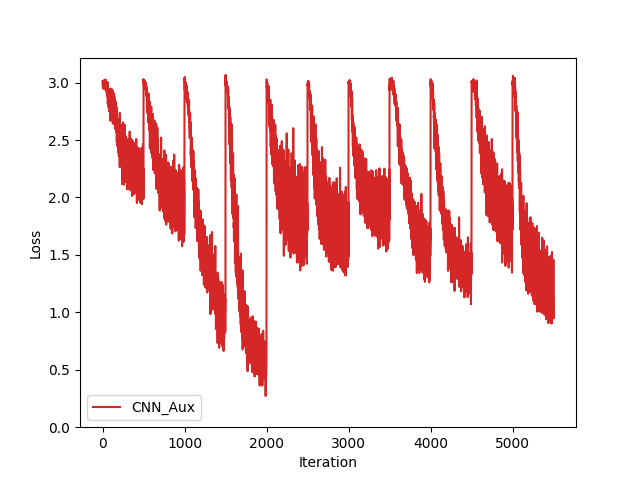
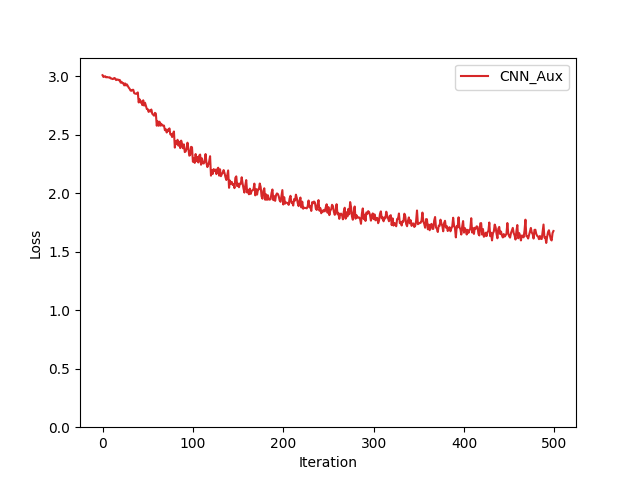
Auxiliary finished

diff --git a/project1/models.py b/project1/models.py
@@ -8,30 +8,48 @@ from torch import optim
 from modelclass import Model
 
 
+
 class Baseline(Model):
     """ The Baseline model is composed only of fully-connected layers. """
 
     def __init__(self, f_gen_data, nb_epochs=25, mini_batch_size=100, learning_rate=1e-3):
         super().__init__(f_gen_data, nb_epochs, mini_batch_size, learning_rate)
 
-        self.fc1 = nn.Linear(98, 200)
-        self.bn1 = nn.BatchNorm1d(200)
-        self.drop = nn.Dropout(0.5)
-        self.fc2 = nn.Linear(200, 100)
+        # layer 1
+        self.fc1 = nn.Linear(392, 160)
+        self.bn1 = nn.BatchNorm1d(160)
+        self.drop1 = nn.Dropout(0.5)
+
+        # layer 2
+        self.fc2 = nn.Linear(80, 100)
         self.bn2 = nn.BatchNorm1d(100)
-        self.fc3 = nn.Linear(100, 100)
-        self.bn3 = nn.BatchNorm1d(100)
-        self.fc4 = nn.Linear(100, 10)
-        self.fc5 = nn.Linear(10, 2)
+        self.drop2 = nn.Dropout(0.5)
+
+        # layer 3
+        self.fc3 = nn.Linear(50, 10)
+
+        # layer 4
+        self.fc4 = nn.Linear(10, 2)
+        print(sum(p.numel() for p in self.parameters() if p.requires_grad))
 
     def forward(self, x):
-        x = F.max_pool2d(x, kernel_size=2)
-        x = F.relu(self.bn1(self.fc1(x.view(x.size()[0], -1))))
-        x = self.drop(x)
-        x = F.relu(self.bn2(self.fc2(x)))
-        x = F.relu(self.bn3(self.fc3(x)))
-        x = F.relu(self.fc4(x))
-        x = self.fc5(x)
+        n = x.size()[0]
+
+        # layer 1
+        x = F.relu(self.bn1(self.fc1(x.view(n, -1))))
+        x = F.max_pool1d(x.view(n, 1, -1), kernel_size=2)
+        x = self.drop1(x)
+
+        # layer 2
+        x = F.relu(self.bn2(self.fc2(x.view(n, -1))))
+        x = F.max_pool1d(x.view(n, 1, -1), kernel_size=2)
+        x = self.drop2(x)
+
+        # layer 3
+        x = F.relu(self.fc3(x.view(n, -1)))
+
+        # layer 4
+        x = self.fc4(x)
         return x
 
     def reset(self):
@@ -47,19 +65,42 @@ class Auxiliary(Model):
         # tell parent class we use auxiliary loss
         self.useAuxiliary = True
 
-        self.fc1 = nn.Linear(196, 200)
-        self.fc2 = nn.Linear(200, 100)
-        self.fc3 = nn.Linear(100, 10)
-        self.fc4 = nn.Linear(10, 2)
+        # layer 1
+        self.fc1 = nn.Linear(196, 160)
+        self.bn1 = nn.BatchNorm1d(160)
+        self.drop1 = nn.Dropout(0.5)
+
+        # layer 2
+        self.fc2 = nn.Linear(80, 100)
+        self.bn2 = nn.BatchNorm1d(100)
+        self.drop2 = nn.Dropout(0.5)
+
+        # layer 3 : digit classification
+        self.fc3 = nn.Linear(50, 10)
+
+        # layer 4 : digit comparison
+        self.fc4 = nn.Linear(20, 2)
+        print(sum(p.numel() for p in self.parameters() if p.requires_grad))
 
     def forward(self, x):
-        x = F.relu(self.fc1(x.view(x.size()[0], -1)))
-        x = F.relu(self.fc2(x))
-        digit_class = self.fc3(x)
+        n = x.size()[0]
 
+        # layer 1
+        x = F.relu(self.bn1(self.fc1(x.view(n, -1))))
+        x = F.max_pool1d(x.view(n, 1, -1), kernel_size=2)
+        x = self.drop1(x)
+
+        # layer 2
+        x = F.relu(self.bn2(self.fc2(x.view(n, -1))))
+        x = F.max_pool1d(x.view(n, 1, -1), kernel_size=2)
+        x = self.drop2(x)
+
+        # layer 3 : digit classification
+        digit_class = self.fc3(x.view(n, -1))
         x = F.relu(digit_class)
-        x = F.relu(self.fc4(x))
-        final_class = x.view(x.size()[0] // 2, -1)
+
+        # layer 4 : digit comparison
+        final_class = self.fc4(x.view(x.size()[0] // 2, -1))
         return digit_class, final_class
 
     def reset(self):
@@ -99,8 +140,10 @@ class CNN(Model):
 
         # 7th layer : fully-connected (digit comparison)
         self.fc3 = nn.Linear(10, 2)
+        print(sum(p.numel() for p in self.parameters() if p.requires_grad))
 
     def forward(self, x):
+
         # layer 1
         x = F.max_pool2d(F.relu(self.bn1(self.conv1(x))), kernel_size=3)
         x = self.drop1(x)
@@ -166,9 +209,9 @@ class CNN_Auxiliary(Model):
 
         # 7th layer : fully-connected (digit comparison)
         self.fc3 = nn.Linear(20, 2)
+        print(sum(p.numel() for p in self.parameters() if p.requires_grad))
 
     def forward(self, x):
-
         # layer 1
         x = F.max_pool2d(F.relu(self.bn1(self.conv1(x))), kernel_size=3)
         x = self.drop1(x)
@@ -192,8 +235,7 @@ class CNN_Auxiliary(Model):
         x = F.relu(digit_class)
 
         # layer 7 : digit comparison
-        # print(x.size())
-        # print(x.view(x.size()[0] // 2, -1).size())
+        # artificially create two channel
         final_class = self.fc3(x.view(x.size()[0] // 2, -1))
         return digit_class, final_class
 

diff --git a/project1/test.py b/project1/test.py
@@ -22,38 +22,37 @@ def train_and_test_rounds(model, nb_rounds, test_id):
     tests_err_rates = []
     losses = []
 
-    for i in range(nb_rounds + 1):
+    for i in range(nb_rounds):
         model.reset()
         trains_err_rate, tests_err_rate, losses_ = model.train_and_test()
         trains_err_rates.append(trains_err_rate)
         tests_err_rates.append(tests_err_rate)
         losses.append(losses_)
 
-    # loss_it = len(losses[0])
-    # loss_avg = []
-    # for i in range(loss_it):
-    #     loss_avg.append(mean(list(map(lambda ls: ls[i], losses))))
-    return ModelResult(test_id, trains_err_rates, tests_err_rates, losses)
+    loss_it = len(losses[0])
+    loss_avg = []
+    for i in range(loss_it):
+        loss_avg.append(mean(list(map(lambda ls: ls[i], losses))))
+    return ModelResult(test_id, trains_err_rates, tests_err_rates, loss_avg)
 
 
 def main():
-    number_rounds = 1
+    number_rounds = 15
 
     # model1 = Baseline(generate_pair_sets)
     # mRes1 = train_and_test_rounds(model1, number_rounds, "Baseline")
-
+    #
     # model2 = Auxiliary(generate_pair_sets)
     # mRes2 = train_and_test_rounds(model2, number_rounds, "Auxiliary")
 
-    # model3 = CNN(generate_pair_sets)
-    # mRes3 = train_and_test_rounds(model3, number_rounds, "CNN")
+    model3 = CNN(generate_pair_sets)
+    mRes3 = train_and_test_rounds(model3, number_rounds, "CNN")
 
-    model4 = CNN_Auxiliary(generate_pair_sets)
-    mRes4 = train_and_test_rounds(model4, number_rounds, "CNN_Aux")
+    # model4 = CNN_Auxiliary(generate_pair_sets)
+    # mRes4 = train_and_test_rounds(model4, number_rounds, "CNN_Aux")
 
-    plot_model_result(mRes4, number_rounds)
-    plot_models_results_comparison([mRes4], number_rounds, True)
-    # plot_models_results_comparison([mRes1, mRes2, mRes3, mRes4], number_rounds, True)
+    # plot_model_result(mRes1, number_rounds)
+    plot_models_results_comparison([mRes3], number_rounds, True)
 
 
 if __name__ == '__main__':

diff --git a/project1/modelclass.py b/project1/modelclass.py
@@ -93,7 +93,6 @@ class Model(nn.Module):
             for b in range(0, train_input.size(0), self.batch_size):
                 if self.useAuxiliary:
                     digit_class, final_class = self(train_input.narrow(0, b, self.batch_size))
-                    # print(final_class.size(), " ", train_target.narrow(0, b // 2, self.batch_size // 2).size(), "\n")
                     loss = \
                         criterion(
                             # loss for digit classification
